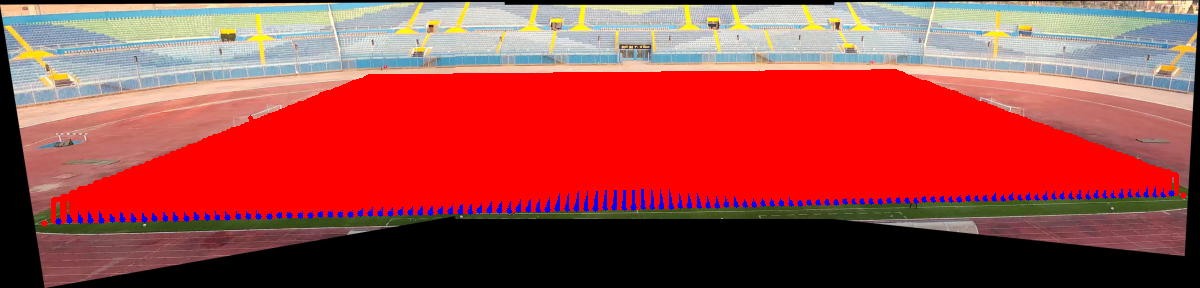
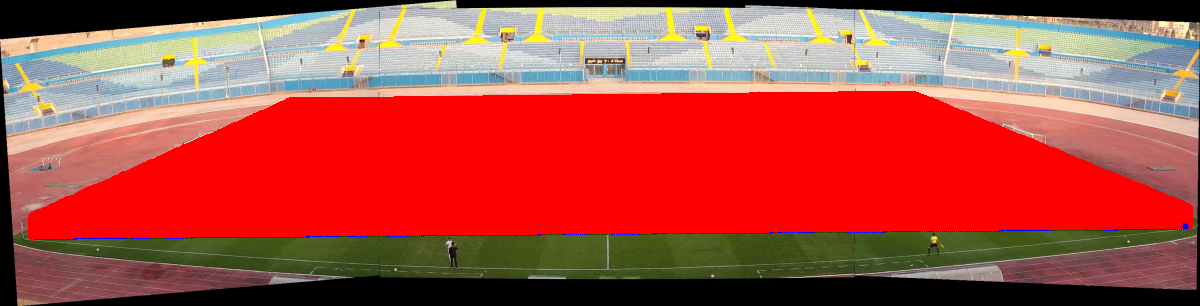
[add] horizontal_check

diff --git a/src/PlayerDetection/PlayerDetection.py b/src/PlayerDetection/PlayerDetection.py
@@ -1,3 +1,4 @@
+from turtle import width
 import cv2 as cv
 import numpy as np
 
@@ -6,6 +7,11 @@ BACK_SUB_THRE = 16
 BACK_SUB_DETECT_SHADOW = False
 
 KERNEL_SIZE = (2, 2)
+MIN_WIDTH_BB = 20
+
+VERTICAL_TH = .15
+HORIZONTAL_TH = .2
+IOU_TH = .2
 
 
 class BoundingBox:
@@ -31,12 +37,14 @@ class PlayerDetction:
         self.MFfrmae = None
         self.MFBefore = None
         self.contourFrame = None
+        self.outputPD = None
 
     def subBG(self, frame):
         self.frame = frame
         # will be removed
         self.setFramesForDisplay()
         frame = self.backSub.apply(frame)
+        #self.IMG.showImage(frame, "FGMASK")
         # shadow
         #_, frame = cv.threshold(frame, 254, 255, cv.THRESH_BINARY)
         return frame
@@ -69,7 +77,7 @@ class PlayerDetction:
         for c in self.contours:
             rect = cv.boundingRect(c)
             x, y, w, h = rect
-            if(w*h < 20):
+            if(w*h < MIN_WIDTH_BB or w > h):
                 continue
 
             tl = (x, y)
@@ -85,7 +93,7 @@ class PlayerDetction:
     def getBoundingBoxes(self):
         return self.BB
 
-    def getRoi(self, B):
+    def vertRoi(self, B):
         start_X = B.tl[0]
         start_Y = B.tl[1]
         end_X = B.br[0]
@@ -97,6 +105,17 @@ class PlayerDetction:
         roi3 = (start_Y+2*inc, end_Y, start_X, end_X)
         return roi1, roi2, roi3
 
+    def horiRoi(self, B):
+        start_X = B.tl[0]
+        start_Y = B.tl[1]
+        end_X = B.br[0]
+        end_Y = B.br[1]
+        width = end_X-start_X
+        middleX = end_X-width//2
+        roiL = (start_Y, end_Y, start_X, middleX)
+        roiR = (start_Y, end_Y, middleX, end_X)
+        return roiL, roiR
+
     def getRatio(self, img):
         number_of_white_pix = np.sum(img == 255)
         number_of_black_pix = np.sum(img == 0)
@@ -106,11 +125,7 @@ class PlayerDetction:
         return percentage
 
     def getDecision(self, p1, p2, p3):
-        if(p1 < .15):
-            return False, 0
-        if(p2 < .15):
-            return False, 0
-        if(p3 < .15):
+        if(p1 < VERTICAL_TH or p2 < VERTICAL_TH or p3 < VERTICAL_TH):
             return False, 0
 
         return True, round((p1+p2+p3)/3, 2)
@@ -134,7 +149,7 @@ class PlayerDetction:
             j = i+1
             while(j < len(particles)):
                 iou = self.IOU(particles[i].B, particles[j].B)
-                if(iou > .2):
+                if(iou > IOU_TH):
                     particles.pop(j)
                     j = j-1
                 j = j+1
@@ -158,7 +173,7 @@ class PlayerDetction:
         return MFBB
 
     def getCandidateParticle(self, MFBB, particle,  NonMax):
-        roi1, roi2, roi3 = self.getRoi(MFBB[particle].B)
+        roi1, roi2, roi3 = self.vertRoi(MFBB[particle].B)
         pRo1 = self.getRatio(self.fgMask[roi1[0]:roi1[1], roi1[2]:roi1[3]])
         pRo2 = self.getRatio(self.fgMask[roi2[0]:roi2[1], roi2[2]:roi2[3]])
         pRo3 = self.getRatio(self.fgMask[roi3[0]:roi3[1], roi3[2]:roi3[3]])
@@ -168,6 +183,15 @@ class PlayerDetction:
         if(decision):
             MFBB[particle].ratio = ratio
             NonMax.append(MFBB[particle])
+
+    def hoizontalCheck(self, particle):
+        roiL, roiR = self.horiRoi(particle.B)
+        pL = self.getRatio(
+            self.fgMask[roiL[0]:roiL[1], roiL[2]:roiL[3]])
+        pR = self.getRatio(
+            self.fgMask[roiR[0]:roiR[1], roiR[2]:roiR[3]])
+
+        return (pL < HORIZONTAL_TH or pR < HORIZONTAL_TH)
 
     def loopOnBB(self):
         for _, B in enumerate(self.BB):
@@ -192,12 +216,23 @@ class PlayerDetction:
             NonMax.sort(key=lambda x: x.ratio, reverse=True)
             NonMax = self.applyNonMax(NonMax)
 
+            self.outputPD = []
             # draw particles
             for particle in NonMax:
+                if(self.hoizontalCheck(particle)):
+                    continue
+
+                self.outputPD.append(particle)
                 cv.rectangle(self.MFfrmae, particle.B.tl,
                              particle.B.br, (255, 0, 0), 1)
+                cv.rectangle(self.fgMask, particle.B.tl,
+                             particle.B.br, (255, 255, 255), 1)
 
             self.IMG.showImage(self.MFfrmae, "MFBB After non max")
-            keyboard = cv.waitKey(0)
-            if keyboard == 'q' or keyboard == 27:
-                break
+            #self.IMG.showImage(self.fgMask, "fgMask After non max")
+            # keyboard = cv.waitKey(0)
+            # if keyboard == 'q' or keyboard == 27:
+            #     break
+
+    def getOutputPD(self):
+        return self.outputPD

diff --git a/src/Main.py b/src/Main.py
@@ -7,19 +7,21 @@ import pickle
 import cv2 as cv
 import copy
 
-IMG = ImageClass('../../output.avi')
+IMG = ImageClass('../data/videos/Video.avi')
 
 # ret, frame, frameId = IMG.readFrame()
 # MF = ModelField(frame)
 # particles = MF._get_particles()
 
+# with open('file.pkl', 'wb') as f:
+#     pickle.dump(particles, f)
+# f.close()
 particles_ORG = {}
 with open('file.pkl', 'rb') as f:
     particles_ORG = pickle.load(f)
 
 particles = copy.deepcopy(particles_ORG)
 PD = PlayerDetction(particles, IMG)
-
 
 while True:
 
@@ -37,8 +39,8 @@ while True:
         PD.loopOnBB()
 
     wait = 1
-    if(frameId > 300):
-        wait = 1
+    # if(frameId > 300):
+    #     wait = 0
     keyboard = cv.waitKey(1)
     if keyboard == 'q' or keyboard == 27:
         break

diff --git a/src/ModelField/model_field.py b/src/ModelField/model_field.py
@@ -12,7 +12,7 @@ SOCCER_WIDTH_M = 108
 
 # TODO: configure
 THICKNESS = 3  # thickness of drawings
-SAMPLES_PER_METER = 1
+SAMPLES_PER_METER = 3
 PIXELS_PER_METER = 10
 PLAYER_ASPECT_RATIO = 9 / 16
 GUI_WIDTH = 1200
@@ -216,15 +216,3 @@ class ModelField:
 
     def _get_particles(self):
         return self.s
-
-    def _get_roi(self, B):
-        start_X = B.tl[0]
-        start_Y = B.tl[1]
-        end_X = B.br[0]
-        end_Y = B.br[1]
-        height = end_Y-start_Y
-        inc = height//3
-        roi1 = (start_Y, start_Y+inc, start_X, end_X)
-        roi2 = (start_Y+inc, start_Y+2*inc, start_X, end_X)
-        roi3 = (start_Y+2*inc, end_Y, start_X, end_X)
-        return roi1, roi2, roi3
